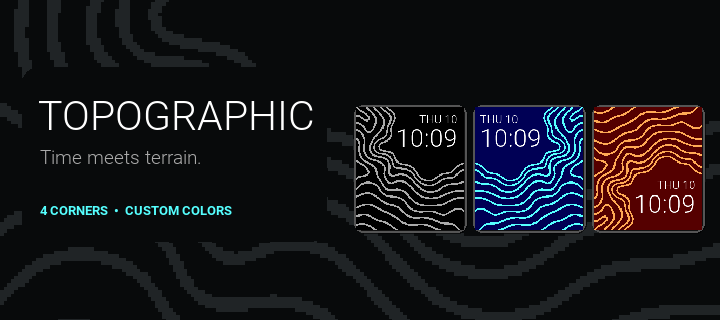
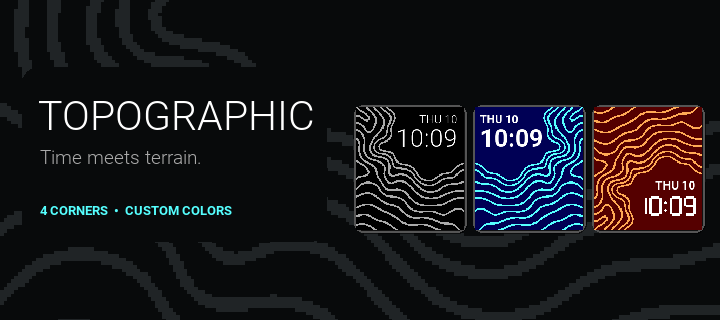
Show font options in store preview

Changed region(s): [[0.8861, 0.5625, 0.9778, 0.6875], [0.6722, 0.3438, 0.7639, 0.4688]]

diff --git a/tools/generate_store_preview.py b/tools/generate_store_preview.py
@@ -12,14 +12,45 @@ SIZE = (200, 228)
 BANNER_SIZE = (720, 320)
 
 VARIANTS = [
-    ("top_right", "#000000", "#AAAAAA", "#FFFFFF"),
-    ("top_left", "#000055", "#55FFFF", "#FFFFFF"),
-    ("bottom_right", "#550000", "#FFAA55", "#FFFFFF"),
-    ("bottom_left", "#FFFFAA", "#005555", "#000000"),
+    ("top_right", "#000000", "#AAAAAA", "#FFFFFF", "light"),
+    ("top_left", "#000055", "#55FFFF", "#FFFFFF", "bold"),
+    ("bottom_right", "#550000", "#FFAA55", "#FFFFFF", "digital"),
+    ("bottom_left", "#FFFFAA", "#005555", "#000000", "roboto"),
 ]
 
 
-def render_face(orientation, background, contours, text):
+SEGMENTS = {
+    "0": "abcedf", "1": "bc", "2": "abged", "3": "abgcd", "4": "fgbc",
+    "5": "afgcd", "6": "afgecd", "7": "abc", "8": "abcdefg", "9": "abfgcd",
+}
+
+
+def draw_digital_time(draw, value, x, y, fill, left):
+    digit_width, digit_height, thickness, spacing, colon_width = 22, 36, 4, 4, 8
+    widths = [colon_width if character == ":" else digit_width for character in value]
+    total_width = sum(widths) + spacing * (len(value) - 1)
+    cursor = x if left else x - total_width
+
+    for character, width in zip(value, widths):
+        if character == ":":
+            draw.ellipse((cursor + 2, y + 10, cursor + 6, y + 14), fill=fill)
+            draw.ellipse((cursor + 2, y + 24, cursor + 6, y + 28), fill=fill)
+        else:
+            segment_boxes = {
+                "a": (cursor + thickness, y, cursor + width - thickness, y + thickness),
+                "b": (cursor + width - thickness, y + thickness, cursor + width, y + digit_height // 2),
+                "c": (cursor + width - thickness, y + digit_height // 2, cursor + width, y + digit_height - thickness),
+                "d": (cursor + thickness, y + digit_height - thickness, cursor + width - thickness, y + digit_height),
+                "e": (cursor, y + digit_height // 2, cursor + thickness, y + digit_height - thickness),
+                "f": (cursor, y + thickness, cursor + thickness, y + digit_height // 2),
+                "g": (cursor + thickness, y + digit_height // 2 - 2, cursor + width - thickness, y + digit_height // 2 + 2),
+            }
+            for segment in SEGMENTS[character]:
+                draw.rectangle(segment_boxes[segment], fill=fill)
+        cursor += width + spacing
+
+
+def render_face(orientation, background, contours, text, font_style):
     mask = Image.open(IMAGES / f"topo_v5_{orientation}.png").convert("L")
     face = Image.new("RGB", SIZE, background)
     line_layer = Image.new("RGB", SIZE, contours)
@@ -28,15 +59,21 @@ def render_face(orientation, background, contours, text):
     left = orientation.endswith("left")
     bottom = orientation.startswith("bottom")
     draw = ImageDraw.Draw(face)
-    date_font = ImageFont.truetype(FONTS / "Roboto-Light.ttf", 21)
-    time_font = ImageFont.truetype(FONTS / "Roboto-Light.ttf", 46)
+    bold = font_style in ("bold", "digital", "roboto")
+    date_font = ImageFont.truetype(FONTS / ("Roboto-Bold.ttf" if bold else "Roboto-Light.ttf"),
+                                   22 if font_style == "digital" else 21)
+    time_font = ImageFont.truetype(FONTS / ("Roboto-Bold.ttf" if bold else "Roboto-Light.ttf"),
+                                   49 if font_style == "roboto" else 46)
     date_y = 10 if not bottom else 132
     time_y = 31 if not bottom else 153
     anchor = "la" if left else "ra"
     x = 9 if left else 188
 
     draw.text((x, date_y), "THU 10", font=date_font, fill=text, anchor=anchor)
-    draw.text((x, time_y), "10:09", font=time_font, fill=text, anchor=anchor)
+    if font_style == "digital":
+        draw_digital_time(draw, "10:09", 12 if left else 188, time_y + 12, text, left)
+    else:
+        draw.text((x, time_y), "10:09", font=time_font, fill=text, anchor=anchor)
     return face
 
 
